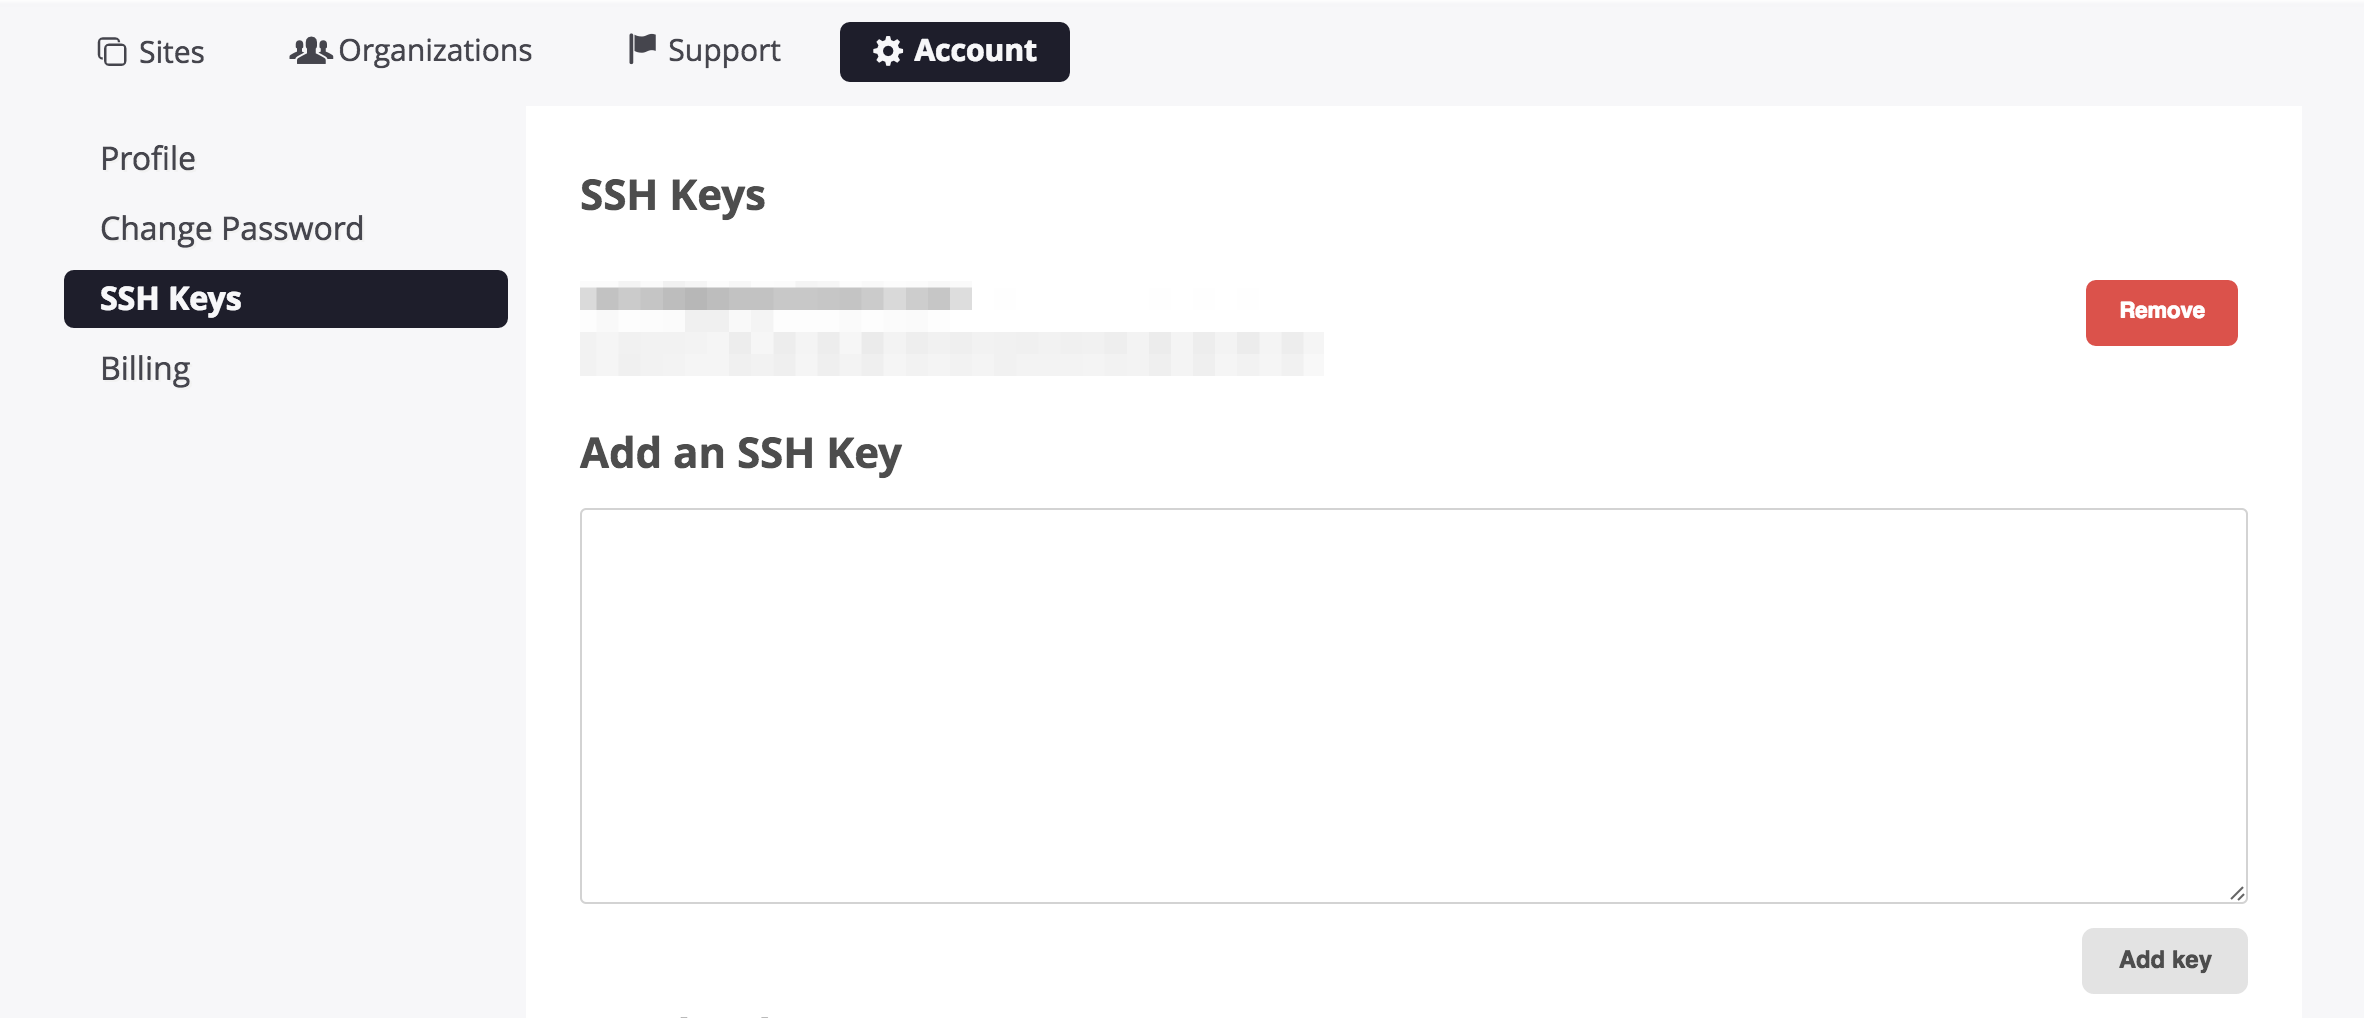
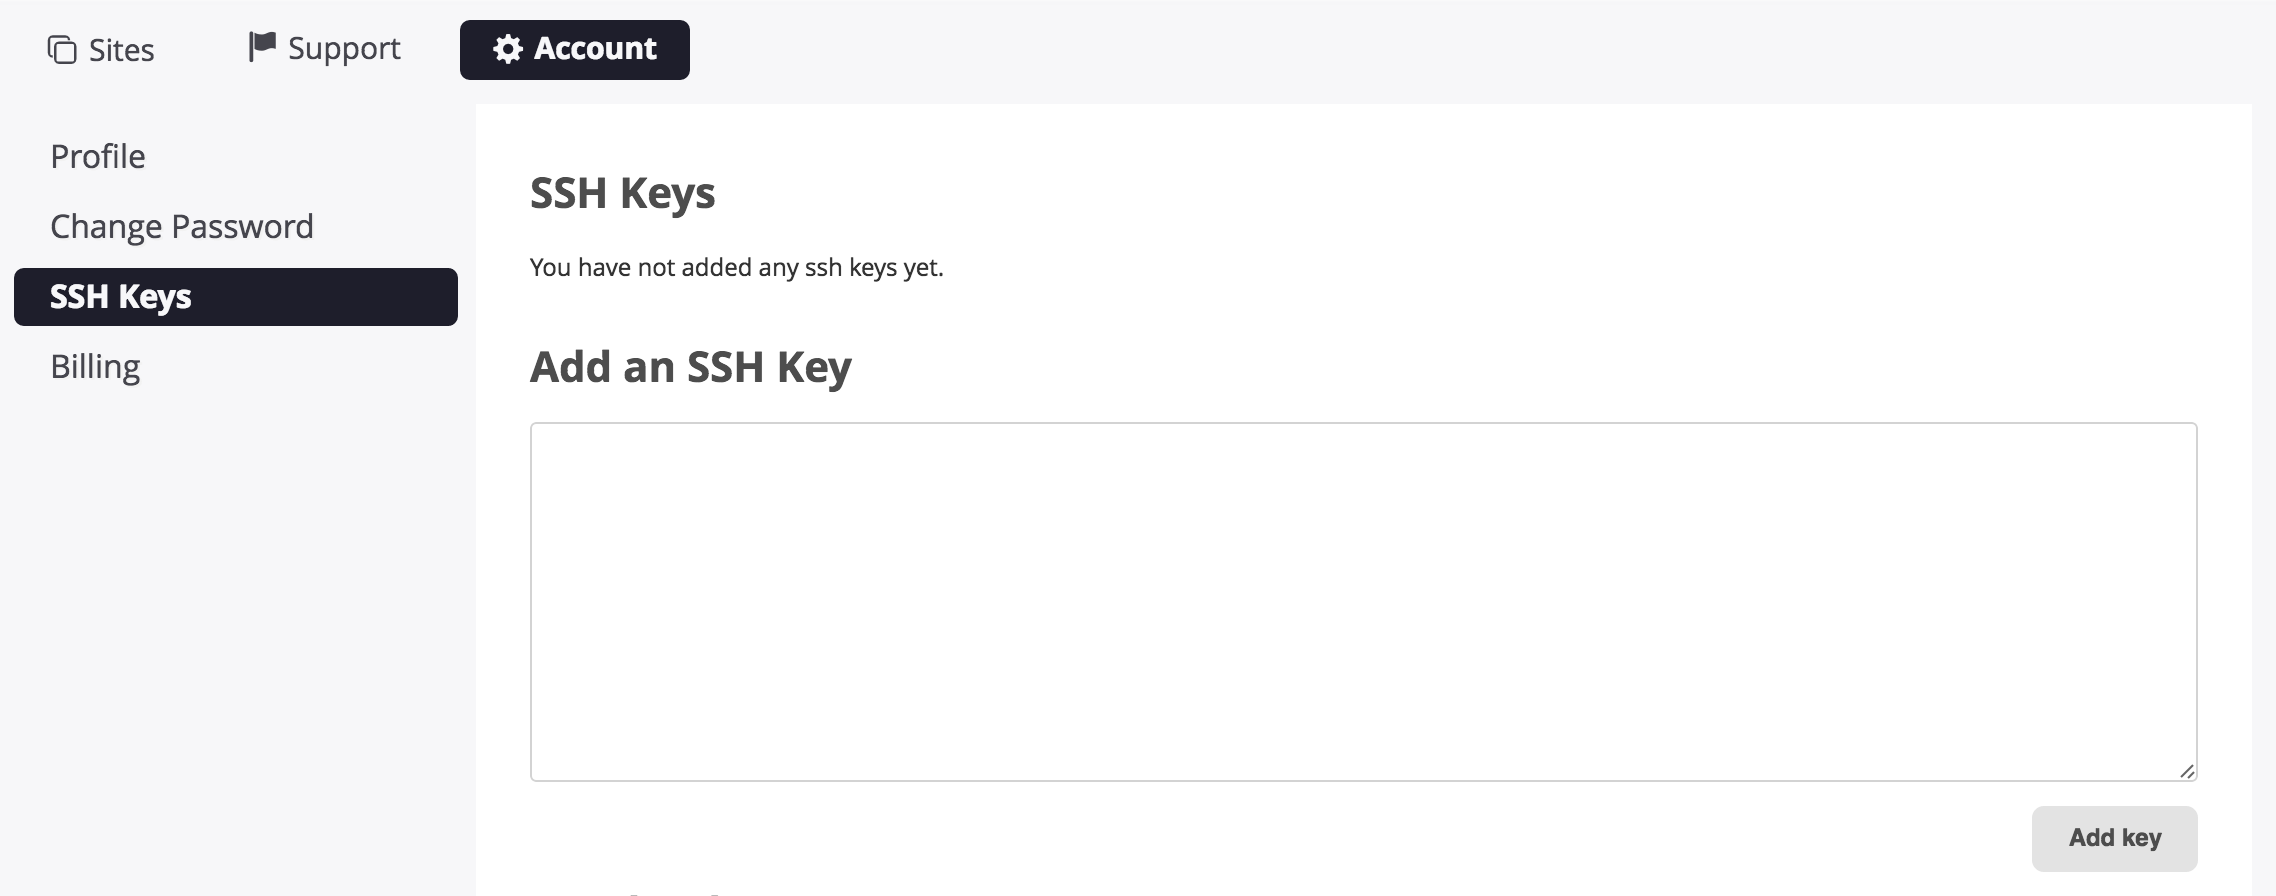
Update to align Loading SSH Keys doc with style guide and update images.

diff --git a/source/docs/articles/users/loading-ssh-keys.md b/source/docs/articles/users/loading-ssh-keys.md
@@ -9,7 +9,7 @@ category:
 ## Overview
 To take full advantage of Pantheon, you should load your public SSH key into your account. SSH keys are a best-practice for authentication, allowing you more security than a simple password. You will only need to do this once, no matter how many sites you work on.
 
-**Note: For detailed help generating SSH keys, see [the HOWTO on key generation](/docs/articles/users/generating-ssh-keys#generate-ssh-keys).**
+**Note**: For detailed help generating SSH keys, see [Generate SSH Keys](/docs/articles/users/generating-ssh-keys).
 
 
 ### Copy your public key
@@ -20,27 +20,21 @@ You should load the public portion of your key. Typically this is the file endin
 In the above example the key type is "ssh-rsa", though you may also generate ssh-dsa or ssh-dss keys depending on your local settings. The long random string is the key, and the `user@machine` at the end is the comment, which is helpful in identifying where a key came from and who it is for.
 
 ### Add your key
-To add your key, navigate to **Your Sites and Account** and use the "Add Key" button.
 
-![](https://www.getpantheon.com/sites/default/files/docs/desk_images/87730)
+Sign on to Pantheon and visit the Account page. Click on **SSH Keys** and paste the copied key into the box. Click **Add Key** to save.
 
-You need to copy the key text completely, and paste it into the form in the modal window. See below. 
+![Adding SSH Keys](/source/docs/assets/images/add-ssh-key-dashboard.png)
 
-![](https://www.getpantheon.com/sites/default/files/docs/desk_images/87731)
 
 Once the key has been successfully added it will appear under the list of available keys on your Pantheon Account page.
 
-![](https://www.getpantheon.com/sites/default/files/docs/desk_images/87835)
+![Show SSH Keys](/source/docs/assets/images/remove-ssh-key.png)
 
 With that, you're set to make a git clone of your site codebase!
 
 ### Delete a key
-To delete a your key, navigate to **Your Sites and Account** and click the "Delete Key" link. Don't worry a modal will appear to asking you if you are sure you want to delete that key.
+To delete a your key, navigate to the Account page and click on **SSH Keys**. Simply click the **Remove** button next to the key you want to delete.
 
-![](https://www.getpantheon.com/sites/default/files/docs/desk_images/87732)
-
-If you are sure that you want to delete a key, then you can go ahead and click on the button in the modal in order to remove it from your account.
-
-![](https://www.getpantheon.com/sites/default/files/docs/desk_images/87733)
+![Delete SSH Key](/source/docs/assets/images/remove-ssh-key.png)
 
 If you have no keys remaining but still have active sites, you will still have access to them and can make edits via SFTP using your account password to authenticate. However, there will be no git access as you need a valid key uploaded to your account.
